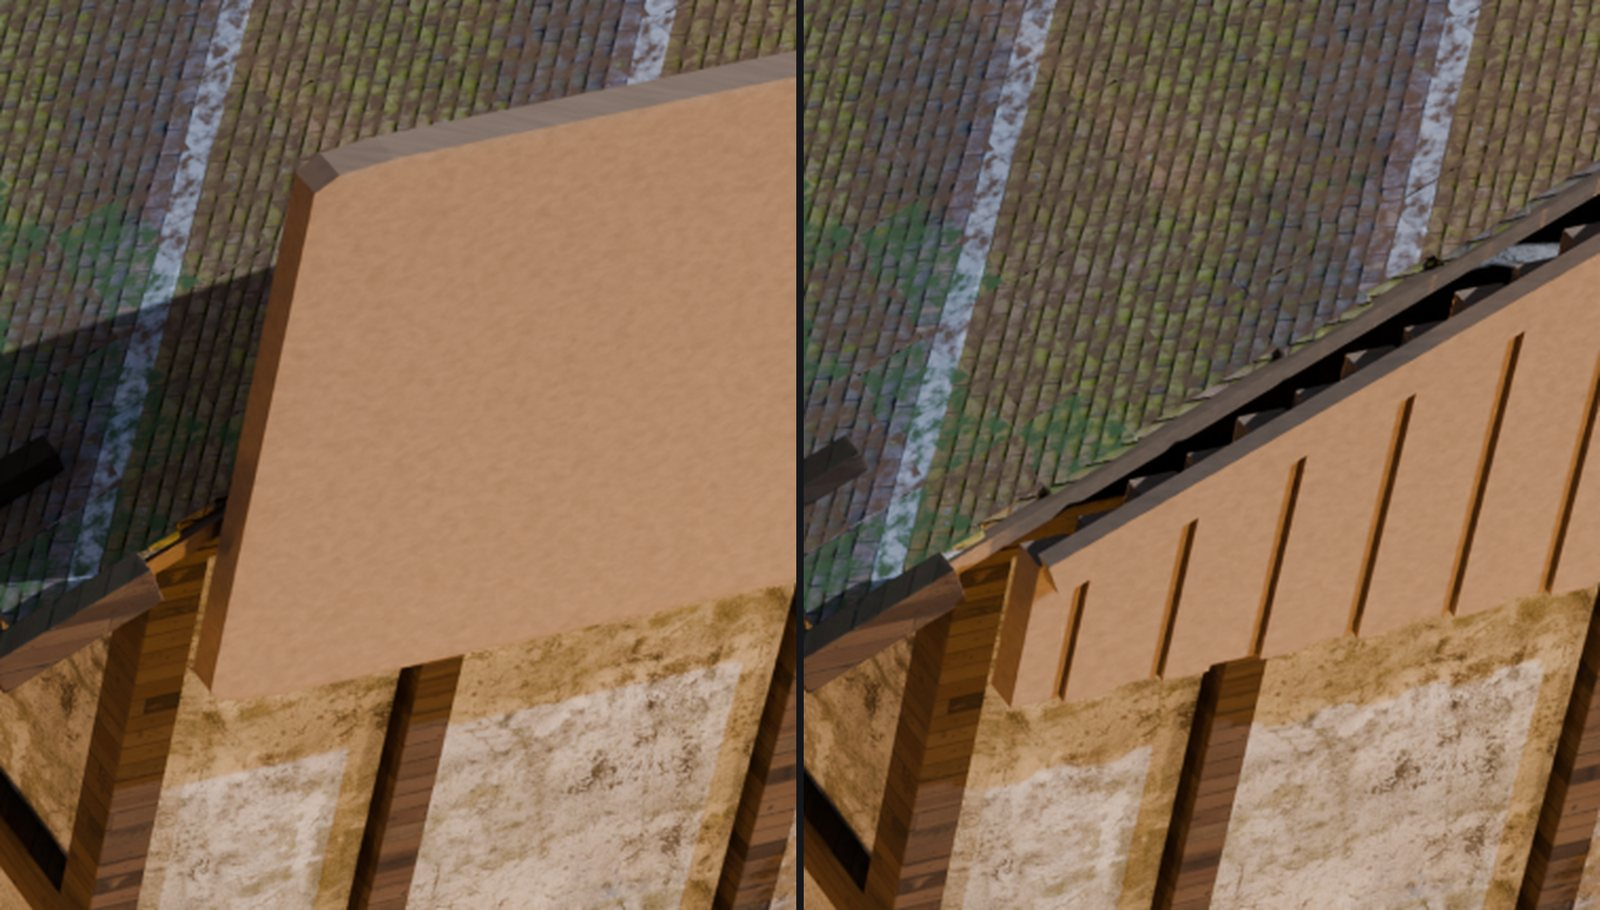
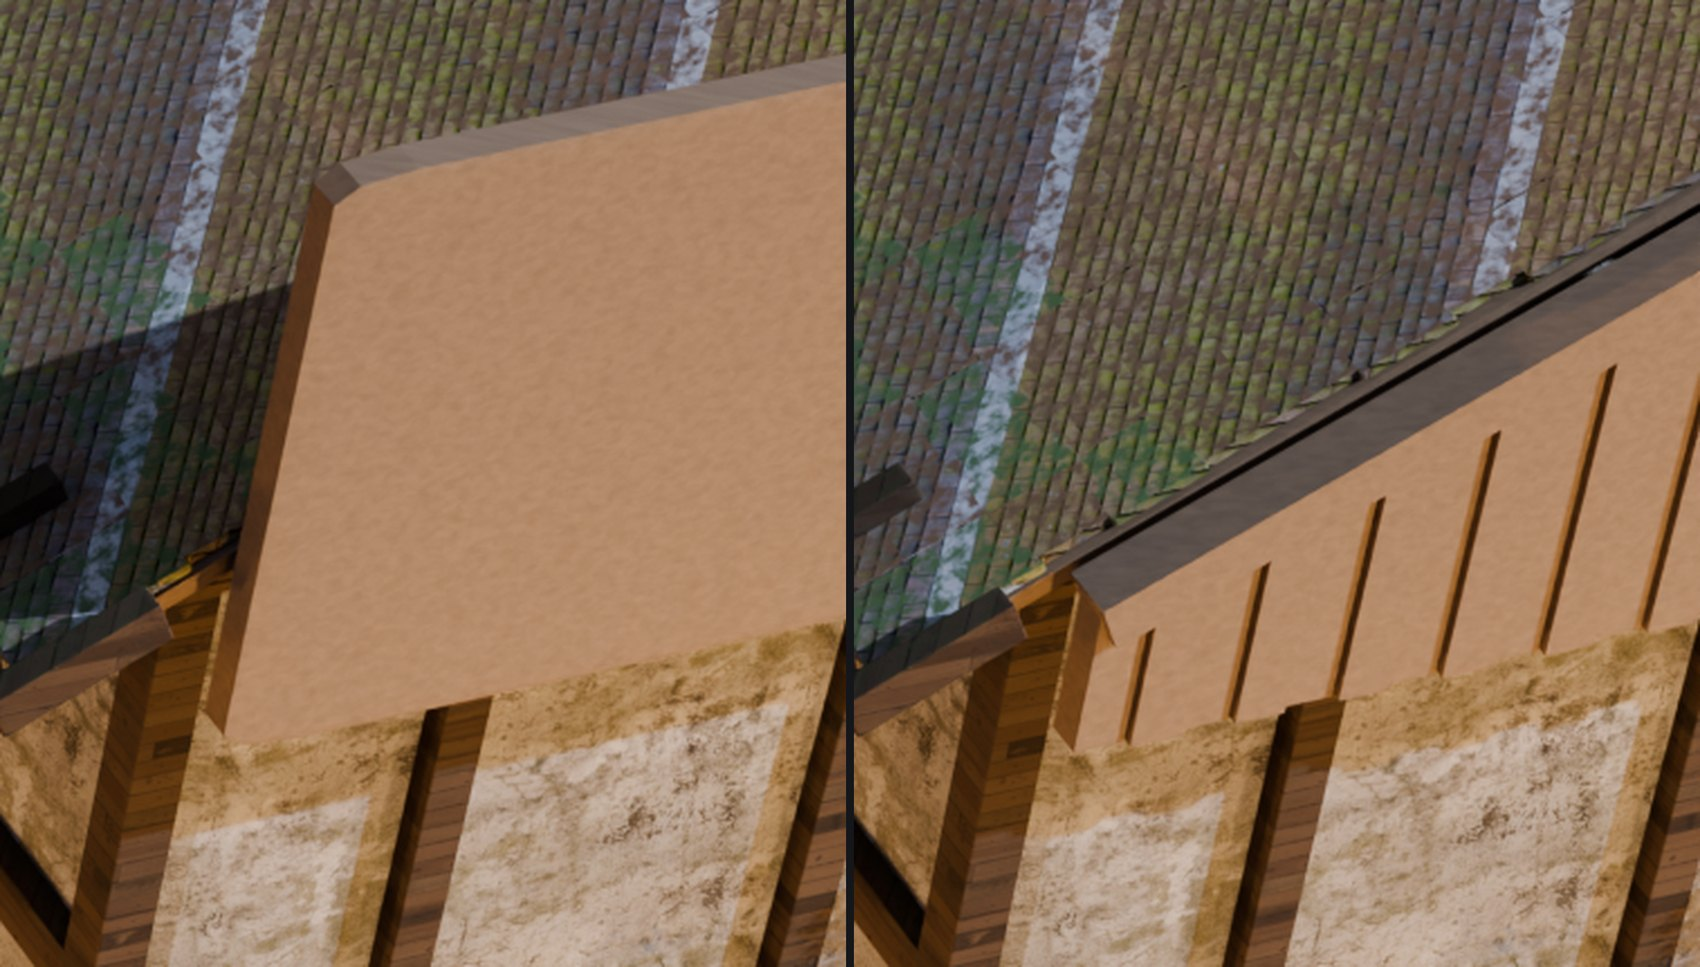
emberbrook board: the gable as shipped - cut to the rake, boarded and capped; the uncapped first bake is recorded as what the picture caught

Changed region(s): [[0.5938, 0.2154, 1.0, 0.6769], [0.9375, 0.3692, 0.9688, 0.4], [0.875, 0.4308, 0.9062, 0.4615]]

diff --git a/docs/qa/emberbrook-redteam/index.html b/docs/qa/emberbrook-redteam/index.html
@@ -654,12 +654,13 @@ seated ONTO the road and the pad reads as continuous paving. Shipped plates, shi
 <p class="cap"><code>waystone</code>, <code>walk_pad_waystone</code> (43.5% of finding F14, <i>&ldquo;the path slab
 terminates awkwardly, floating above the ground with an unmodeled edge clipping through the terrain&rdquo;</i>).</p>
 <img src="ev/r2-gable-shipped-ab.jpg" alt="the gable at the shipped grade">
-<p class="cap"><code>homerow</code>, the gable at the SHIPPED grade &mdash; and this is the frame that found the
-next defect. The panel is cut to the roof and the 0.24 m board seams read, but <b>the rake is a staircase of
-board tops with black gaps to the shingles</b>, and from <code>square</code> (26&ndash;39 m, seen edge-on) the
-same steps photographed as a lit SAWTOOTH. The barge-board now straddles the gable's own plane and is wider
-than one 0.119 m step. <b>Only the picture said so</b>: the carrier's receipt was 88 members / 0 refused, and
-the draft A/B ranked <code>square</code> first at 3.379% without saying why.</p>
+<p class="cap"><code>homerow</code> at the SHIPPED grade, before and after &mdash; the shipped result, and the
+frame that found the round's second defect on the way. LEFT: one flat tan panel with a dead-level top edge.
+RIGHT: cut to the roof rake, boarded at a 0.24 m pitch, and CAPPED. The first bake of this fix had no cap: the
+board tops step 0.119 m each, which showed on <code>homerow</code> as a staircase with black gaps to the
+shingles and on <code>square</code> (26&ndash;39 m, gable seen EDGE-ON) as a lit SAWTOOTH along the beam.
+<b>Only the picture said so</b> &mdash; the carrier's receipt was 88 members / 0 refused, and the draft A/B
+ranked <code>square</code> first at 3.379% without saying why.</p>
 
 <p class="cap" id="r2foot">Round 2 evidence: <code>docs/qa/emberbrook-redteam/round2-draft-ab.json</code>, <code>padstack-before.json</code>, <code>padstack-after-master.json</code>. Instruments: <code>tools/emb_padstack.mjs</code>, <code>tools/emb_ray_census.py</code>, <code>tools/plate_ab.py</code>, <code>tools/emb_bake_shipped.mjs</code>, <code>tools/emb_millgable.py</code>.</p>
 
